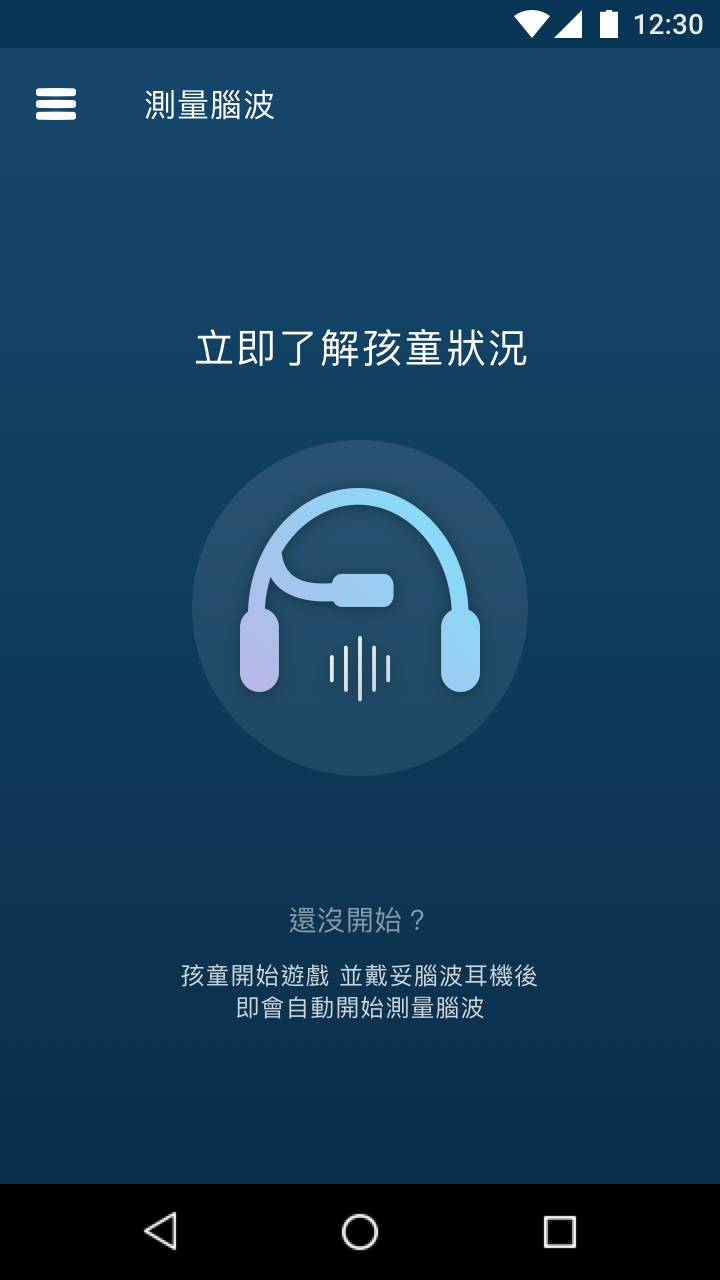
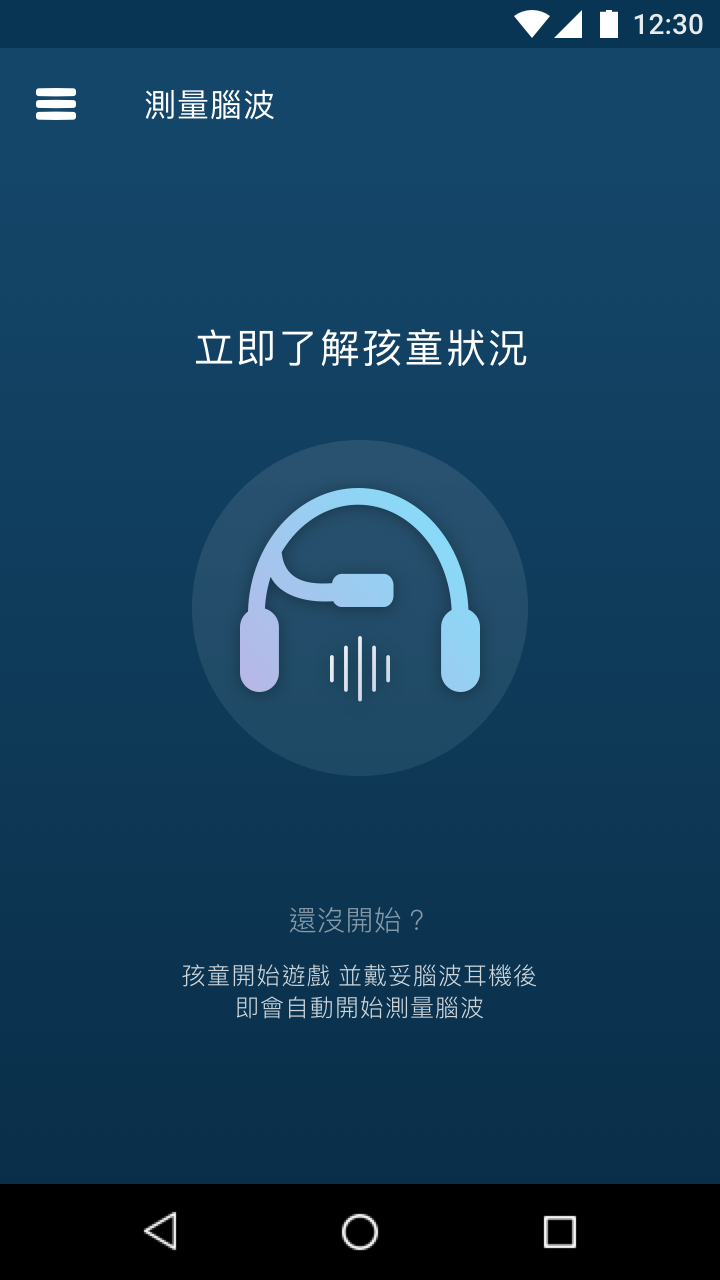
z

Changed region(s): [[0.2444, 0.75, 0.7639, 0.8125]]

diff --git a/page_ms_default/index.html b/page_ms_default/index.html
@@ -1656,7 +1656,7 @@ I18N['zh-tw'] = {
     init.prototype = SMApp.fn;
     window.SMApp = SMApp;
 })(window);
-$(function(){ SMApp({"scale":"1","unit":"px","colorFormat":"color-hex","artboards":[{"layers":[{"objectID":"A8DF03EC-6BA6-47D5-9067-3C0190DDEBF7","type":"shape","name":"bg_darkBlue","rect":{"x":0,"y":80,"width":360,"height":512},"rotation":0,"radius":0,"borders":[],"fills":[{"fillType":"gradient","gradient":{"type":"linear","from":{"x":0.463243305683136,"y":0},"to":{"x":0.46324329922059615,"y":1.044392124421861},"colorStops":[{"color":{"r":20,"g":70,"b":105,"a":1,"color-hex":"#144669 100%","argb-hex":"#FF144669","css-rgba":"rgba(20,70,105,1)","ui-color":"(r:0.08 g:0.27 b:0.41 a:1.00)"},"position":0},{"color":{"r":9,"g":45,"b":71,"a":1,"color-hex":"#092D47 100%","argb-hex":"#FF092D47","css-rgba":"rgba(9,45,71,1)","ui-color":"(r:0.03 g:0.18 b:0.28 a:1.00)"},"position":1}]}}],"shadows":[],"opacity":1,"styleName":"","css":["background-image: linear-gradient(-180deg, #144669 0%, #092D47 100%);"]},{"objectID":"C24CA3C5-14D3-49C8-BAE1-D055860FE111","type":"shape","name":"nav_bar","rect":{"x":0,"y":592,"width":360,"height":48},"rotation":0,"radius":0,"borders":[],"fills":[],"shadows":[],"opacity":1,"styleName":""},{"objectID":"73826274-ED5E-4AD5-9923-4425F4F8757E","type":"text","name":"孩童開始遊戲 並戴妥腦波耳機後 即會自動","rect":{"x":90,"y":480,"width":180,"height":32},"rotation":0,"radius":0,"borders":[],"fills":[],"shadows":[],"opacity":0.800000011920929,"styleName":"","content":"孩童開始遊戲 並戴妥腦波耳機後\n即會自動開始測量腦波","color":{"r":255,"g":255,"b":255,"a":1,"color-hex":"#FFFFFF 100%","argb-hex":"#FFFFFFFF","css-rgba":"rgba(255,255,255,1)","ui-color":"(r:1.00 g:1.00 b:1.00 a:1.00)"},"fontSize":12,"fontFace":"PingFangTC-Regular","textAlign":"center","letterSpacing":0.5,"lineHeight":16,"css":["opacity: 0.8;","font-family: PingFangTC-Regular;","font-size: 12px;","color: #FFFFFF;","letter-spacing: 0.5px;","line-height: 16px;"]},{"objectID":"DF079282-0BB4-4492-A0B4-89F07B8C3FEB","type":"text","name":"還沒開始？","rect":{"x":144,"y":448,"width":72,"height":24},"rotation":0,"radius":0,"borders":[],"fills":[],"shadows":[],"opacity":0.5,"styleName":"","content":"還沒開始？","color":{"r":255,"g":255,"b":255,"a":1,"color-hex":"#FFFFFF 100%","argb-hex":"#FFFFFFFF","css-rgba":"rgba(255,255,255,1)","ui-color":"(r:1.00 g:1.00 b:1.00 a:1.00)"},"fontSize":14,"fontFace":"Roboto-Regular","textAlign":"center","letterSpacing":0.30000001192092896,"lineHeight":24,"css":["opacity: 0.5;","font-family: Roboto-Regular;","font-size: 14px;","color: #FFFFFF;","letter-spacing: 0.3px;","line-height: 24px;"]},{"objectID":"A787A7F6-D058-41DD-A17C-95F8272A4810","type":"slice","name":"Img_headset","rect":{"x":96,"y":220,"width":168,"height":168},"exportable":[{"name":"Img_headset","format":"png","path":"Img_headset.png"}]},{"objectID":"A15F91AF-730A-4074-A24E-D45C4149D91A","type":"symbol","name":"Bar/Header","rect":{"x":0,"y":24,"width":360,"height":56},"rotation":0,"radius":0,"borders":[],"fills":[],"shadows":[],"opacity":1,"styleName":""},{"objectID":"F7567344-B48B-42DA-A3CC-50CE141C64CD","type":"shape","name":"bg","rect":{"x":0,"y":24,"width":360,"height":56},"rotation":0,"radius":0,"borders":[],"fills":[{"fillType":"color","color":{"r":20,"g":70,"b":105,"a":1,"color-hex":"#144669 100%","argb-hex":"#FF144669","css-rgba":"rgba(20,70,105,1)","ui-color":"(r:0.08 g:0.27 b:0.41 a:1.00)"}}],"shadows":[],"opacity":1,"styleName":"","css":["background: #144669;"]},{"objectID":"7633D35D-9322-4228-9C07-ACD3E6F8156D","type":"symbol","name":"Icon/menu","rect":{"x":16,"y":40,"width":24,"height":24},"rotation":0,"radius":0,"borders":[],"fills":[],"shadows":[],"opacity":1,"styleName":"","exportable":[{"name":"Icon/menu","format":"png","path":"Icon/menu.png"}]},{"objectID":"CC57C13F-2C1C-4E02-B459-765E72797C45","type":"text","name":"Title","rect":{"x":72,"y":40,"width":66,"height":24},"rotation":0,"radius":0,"borders":[],"fills":[],"shadows":[],"opacity":1,"styleName":"White/16px regular","content":"測量腦波","color":{"r":255,"g":255,"b":255,"a":1,"color-hex":"#FFFFFF 100%","argb-hex":"#FFFFFFFF","css-rgba":"rgba(255,255,255,1)","ui-color":"(r:1.00 g:1.00 b:1.00 a:1.00)"},"fontSize":16,"fontFace":"Roboto-Regular","textAlign":"left","letterSpacing":0.5,"lineHeight":24,"css":["font-family: Roboto-Regular;","font-size: 16px;","color: #FFFFFF;","letter-spacing: 0.5px;","line-height: 24px;"]},{"objectID":"1D9038E2-0B4B-4B89-8FD6-5779EE9AC07C","type":"symbol","name":"Bars/Status bar","rect":{"x":0,"y":0,"width":360,"height":24},"rotation":0,"radius":0,"borders":[],"fills":[],"shadows":[],"opacity":1,"styleName":""},{"objectID":"92B9CC3F-C79D-4213-845D-358967D93061","type":"shape","name":"status bar bg","rect":{"x":0,"y":0,"width":360,"height":24},"rotation":0,"radius":0,"borders":[],"fills":[{"fillType":"color","color":{"r":9,"g":53,"b":84,"a":1,"color-hex":"#093554 100%","argb-hex":"#FF093554","css-rgba":"rgba(9,53,84,1)","ui-color":"(r:0.04 g:0.21 b:0.33 a:1.00)"}}],"shadows":[],"opacity":1,"styleName":"","css":["background: #093554;"]},{"objectID":"C721A454-854E-449C-85BC-A123A8EC1018","type":"text","name":"12:30","rect":{"x":316,"y":4,"width":36,"height":16},"rotation":0,"radius":0,"borders":[],"fills":[{"fillType":"color","color":{"r":255,"g":255,"b":255,"a":1,"color-hex":"#FFFFFF 100%","argb-hex":"#FFFFFFFF","css-rgba":"rgba(255,255,255,1)","ui-color":"(r:1.00 g:1.00 b:1.00 a:1.00)"}}],"shadows":[],"opacity":1,"styleName":"","content":"12:30","color":{"r":0,"g":0,"b":0,"a":1,"color-hex":"#000000 100%","argb-hex":"#FF000000","css-rgba":"rgba(0,0,0,1)","ui-color":"(r:0.00 g:0.00 b:0.00 a:1.00)"},"fontSize":14,"fontFace":"Roboto-Medium","textAlign":"right","letterSpacing":0,"lineHeight":16,"css":["font-family: Roboto-Medium;","font-size: 14px;","color: #000000;"]},{"objectID":"EA577749-950A-4B95-AE91-1471809E4D5C","type":"shape","name":"bounds","rect":{"x":297,"y":4,"width":16,"height":16},"rotation":0,"radius":0,"borders":[],"fills":[],"shadows":[],"opacity":1,"styleName":""},{"objectID":"04509B03-1C82-4E70-A60B-563CB5EFDEED","type":"shape","name":"Shape","rect":{"x":300,"y":5,"width":9,"height":14},"rotation":0,"radius":0,"borders":[],"fills":[{"fillType":"color","color":{"r":255,"g":255,"b":255,"a":1,"color-hex":"#FFFFFF 100%","argb-hex":"#FFFFFFFF","css-rgba":"rgba(255,255,255,1)","ui-color":"(r:1.00 g:1.00 b:1.00 a:1.00)"}}],"shadows":[],"opacity":1,"styleName":"","css":["background: #FFFFFF;"]},{"objectID":"7EBD03E0-7CF8-4DF4-84D6-87FC9A84FB1E","type":"shape","name":"bounds","rect":{"x":277,"y":4,"width":16,"height":16},"rotation":0,"radius":0,"borders":[],"fills":[],"shadows":[],"opacity":1,"styleName":""},{"objectID":"CBB32A07-0D54-40D4-A69F-2B64CBF676E5","type":"shape","name":"Shape","rect":{"x":277,"y":5,"width":14,"height":14},"rotation":0,"radius":0,"borders":[],"fills":[{"fillType":"color","color":{"r":255,"g":255,"b":255,"a":1,"color-hex":"#FFFFFF 100%","argb-hex":"#FFFFFFFF","css-rgba":"rgba(255,255,255,1)","ui-color":"(r:1.00 g:1.00 b:1.00 a:1.00)"}}],"shadows":[],"opacity":1,"styleName":"","css":["background: #FFFFFF;"]},{"objectID":"1C63ECF8-A21C-468D-A2E0-36C0B9689898","type":"shape","name":"bounds","rect":{"x":258,"y":4,"width":16,"height":16},"rotation":0,"radius":0,"borders":[],"fills":[],"shadows":[],"opacity":1,"styleName":""},{"objectID":"7A5D021E-5761-4B5B-A926-8A58D348CA3B","type":"shape","name":"Shape","rect":{"x":257,"y":5,"width":18,"height":14},"rotation":0,"radius":0,"borders":[],"fills":[{"fillType":"color","color":{"r":255,"g":255,"b":255,"a":1,"color-hex":"#FFFFFF 100%","argb-hex":"#FFFFFFFF","css-rgba":"rgba(255,255,255,1)","ui-color":"(r:1.00 g:1.00 b:1.00 a:1.00)"}}],"shadows":[],"opacity":1,"styleName":"","css":["background: #FFFFFF;"]},{"objectID":"5DA760EB-584E-433F-98F9-770AA27EC75D","type":"text","name":"立即了解孩童狀況","rect":{"x":97,"y":160,"width":167,"height":28},"rotation":0,"radius":0,"borders":[],"fills":[],"shadows":[],"opacity":1,"styleName":"","content":"立即了解孩童狀況","color":{"r":255,"g":255,"b":255,"a":1,"color-hex":"#FFFFFF 100%","argb-hex":"#FFFFFFFF","css-rgba":"rgba(255,255,255,1)","ui-color":"(r:1.00 g:1.00 b:1.00 a:1.00)"},"fontSize":20,"fontFace":"Roboto-Regular","textAlign":"center","letterSpacing":1,"lineHeight":28,"css":["font-family: Roboto-Regular;","font-size: 20px;","color: #FFFFFF;","letter-spacing: 1px;","line-height: 28px;"]}],"notes":[],"pageName":"Page 1","pageObjectID":"D526FE0C-BCEE-4C14-AAE0-85B6CF2F2B53","name":"測量腦波-default","slug":"page-1-測量腦波-default","objectID":"8E420D94-00FE-49D3-B918-1A4E364BF129","width":360,"height":640,"imagePath":"preview/page-1-%E6%B8%AC%E9%87%8F%E8%85%A6%E6%B3%A2-default.png"}],"slices":[{"name":"Img_headset","objectID":"A787A7F6-D058-41DD-A17C-95F8272A4810","rect":{"x":96,"y":220,"width":168,"height":168},"exportable":[{"name":"Img_headset","format":"png","path":"Img_headset.png"}]},{"name":"Icon/menu","objectID":"7633D35D-9322-4228-9C07-ACD3E6F8156D","rect":{"x":16,"y":40,"width":24,"height":24},"exportable":[{"name":"Icon/menu","format":"png","path":"Icon/menu.png"}]}],"colors":[]}) });
+$(function(){ SMApp({"scale":"1","unit":"px","colorFormat":"color-hex","artboards":[{"layers":[{"objectID":"A8DF03EC-6BA6-47D5-9067-3C0190DDEBF7","type":"shape","name":"bg_darkBlue","rect":{"x":0,"y":80,"width":360,"height":512},"rotation":0,"radius":0,"borders":[],"fills":[{"fillType":"gradient","gradient":{"type":"linear","from":{"x":0.463243305683136,"y":0},"to":{"x":0.46324329922059615,"y":1.044392124421861},"colorStops":[{"color":{"r":20,"g":70,"b":105,"a":1,"color-hex":"#144669 100%","argb-hex":"#FF144669","css-rgba":"rgba(20,70,105,1)","ui-color":"(r:0.08 g:0.27 b:0.41 a:1.00)"},"position":0},{"color":{"r":9,"g":45,"b":71,"a":1,"color-hex":"#092D47 100%","argb-hex":"#FF092D47","css-rgba":"rgba(9,45,71,1)","ui-color":"(r:0.03 g:0.18 b:0.28 a:1.00)"},"position":1}]}}],"shadows":[],"opacity":1,"styleName":"","css":["background-image: linear-gradient(-180deg, #144669 0%, #092D47 100%);"]},{"objectID":"C24CA3C5-14D3-49C8-BAE1-D055860FE111","type":"shape","name":"nav_bar","rect":{"x":0,"y":592,"width":360,"height":48},"rotation":0,"radius":0,"borders":[],"fills":[],"shadows":[],"opacity":1,"styleName":""},{"objectID":"73826274-ED5E-4AD5-9923-4425F4F8757E","type":"text","name":"孩童開始遊戲 並戴妥腦波耳機後 即會自動","rect":{"x":90.5,"y":480,"width":179,"height":32},"rotation":0,"radius":0,"borders":[],"fills":[],"shadows":[],"opacity":0.800000011920929,"styleName":"","content":"孩童開始遊戲 並戴妥腦波耳機後\n即會自動開始測量腦波","color":{"r":255,"g":255,"b":255,"a":1,"color-hex":"#FFFFFF 100%","argb-hex":"#FFFFFFFF","css-rgba":"rgba(255,255,255,1)","ui-color":"(r:1.00 g:1.00 b:1.00 a:1.00)"},"fontSize":12,"fontFace":"Roboto-Light","textAlign":"center","letterSpacing":0.5,"lineHeight":16,"css":["opacity: 0.8;","font-family: Roboto-Light;","font-size: 12px;","color: #FFFFFF;","letter-spacing: 0.5px;","line-height: 16px;"]},{"objectID":"DF079282-0BB4-4492-A0B4-89F07B8C3FEB","type":"text","name":"還沒開始？","rect":{"x":144,"y":448,"width":72,"height":24},"rotation":0,"radius":0,"borders":[],"fills":[],"shadows":[],"opacity":0.5,"styleName":"","content":"還沒開始？","color":{"r":255,"g":255,"b":255,"a":1,"color-hex":"#FFFFFF 100%","argb-hex":"#FFFFFFFF","css-rgba":"rgba(255,255,255,1)","ui-color":"(r:1.00 g:1.00 b:1.00 a:1.00)"},"fontSize":14,"fontFace":"Roboto-Light","textAlign":"center","letterSpacing":0.30000001192092896,"lineHeight":24,"css":["opacity: 0.5;","font-family: Roboto-Light;","font-size: 14px;","color: #FFFFFF;","letter-spacing: 0.3px;","line-height: 24px;"]},{"objectID":"A787A7F6-D058-41DD-A17C-95F8272A4810","type":"slice","name":"Img_headset","rect":{"x":96,"y":220,"width":168,"height":168},"exportable":[{"name":"Img_headset","format":"png","path":"Img_headset.png"}]},{"objectID":"A15F91AF-730A-4074-A24E-D45C4149D91A","type":"symbol","name":"Bar/Header","rect":{"x":0,"y":24,"width":360,"height":56},"rotation":0,"radius":0,"borders":[],"fills":[],"shadows":[],"opacity":1,"styleName":""},{"objectID":"F7567344-B48B-42DA-A3CC-50CE141C64CD","type":"shape","name":"bg","rect":{"x":0,"y":24,"width":360,"height":56},"rotation":0,"radius":0,"borders":[],"fills":[{"fillType":"color","color":{"r":20,"g":70,"b":105,"a":1,"color-hex":"#144669 100%","argb-hex":"#FF144669","css-rgba":"rgba(20,70,105,1)","ui-color":"(r:0.08 g:0.27 b:0.41 a:1.00)"}}],"shadows":[],"opacity":1,"styleName":"","css":["background: #144669;"]},{"objectID":"7633D35D-9322-4228-9C07-ACD3E6F8156D","type":"symbol","name":"Icon/menu","rect":{"x":16,"y":40,"width":24,"height":24},"rotation":0,"radius":0,"borders":[],"fills":[],"shadows":[],"opacity":1,"styleName":"","exportable":[{"name":"Icon/menu","format":"png","path":"Icon/menu.png"}]},{"objectID":"CC57C13F-2C1C-4E02-B459-765E72797C45","type":"text","name":"Title","rect":{"x":72,"y":40,"width":66,"height":24},"rotation":0,"radius":0,"borders":[],"fills":[],"shadows":[],"opacity":1,"styleName":"White/16px regular","content":"測量腦波","color":{"r":255,"g":255,"b":255,"a":1,"color-hex":"#FFFFFF 100%","argb-hex":"#FFFFFFFF","css-rgba":"rgba(255,255,255,1)","ui-color":"(r:1.00 g:1.00 b:1.00 a:1.00)"},"fontSize":16,"fontFace":"Roboto-Regular","textAlign":"left","letterSpacing":0.5,"lineHeight":24,"css":["font-family: Roboto-Regular;","font-size: 16px;","color: #FFFFFF;","letter-spacing: 0.5px;","line-height: 24px;"]},{"objectID":"1D9038E2-0B4B-4B89-8FD6-5779EE9AC07C","type":"symbol","name":"Bars/Status bar","rect":{"x":0,"y":0,"width":360,"height":24},"rotation":0,"radius":0,"borders":[],"fills":[],"shadows":[],"opacity":1,"styleName":""},{"objectID":"92B9CC3F-C79D-4213-845D-358967D93061","type":"shape","name":"status bar bg","rect":{"x":0,"y":0,"width":360,"height":24},"rotation":0,"radius":0,"borders":[],"fills":[{"fillType":"color","color":{"r":9,"g":53,"b":84,"a":1,"color-hex":"#093554 100%","argb-hex":"#FF093554","css-rgba":"rgba(9,53,84,1)","ui-color":"(r:0.04 g:0.21 b:0.33 a:1.00)"}}],"shadows":[],"opacity":1,"styleName":"","css":["background: #093554;"]},{"objectID":"C721A454-854E-449C-85BC-A123A8EC1018","type":"text","name":"12:30","rect":{"x":316,"y":4,"width":36,"height":16},"rotation":0,"radius":0,"borders":[],"fills":[{"fillType":"color","color":{"r":255,"g":255,"b":255,"a":1,"color-hex":"#FFFFFF 100%","argb-hex":"#FFFFFFFF","css-rgba":"rgba(255,255,255,1)","ui-color":"(r:1.00 g:1.00 b:1.00 a:1.00)"}}],"shadows":[],"opacity":1,"styleName":"","content":"12:30","color":{"r":0,"g":0,"b":0,"a":1,"color-hex":"#000000 100%","argb-hex":"#FF000000","css-rgba":"rgba(0,0,0,1)","ui-color":"(r:0.00 g:0.00 b:0.00 a:1.00)"},"fontSize":14,"fontFace":"Roboto-Medium","textAlign":"right","letterSpacing":0,"lineHeight":16,"css":["font-family: Roboto-Medium;","font-size: 14px;","color: #000000;"]},{"objectID":"EA577749-950A-4B95-AE91-1471809E4D5C","type":"shape","name":"bounds","rect":{"x":297,"y":4,"width":16,"height":16},"rotation":0,"radius":0,"borders":[],"fills":[],"shadows":[],"opacity":1,"styleName":""},{"objectID":"04509B03-1C82-4E70-A60B-563CB5EFDEED","type":"shape","name":"Shape","rect":{"x":300,"y":5,"width":9,"height":14},"rotation":0,"radius":0,"borders":[],"fills":[{"fillType":"color","color":{"r":255,"g":255,"b":255,"a":1,"color-hex":"#FFFFFF 100%","argb-hex":"#FFFFFFFF","css-rgba":"rgba(255,255,255,1)","ui-color":"(r:1.00 g:1.00 b:1.00 a:1.00)"}}],"shadows":[],"opacity":1,"styleName":"","css":["background: #FFFFFF;"]},{"objectID":"7EBD03E0-7CF8-4DF4-84D6-87FC9A84FB1E","type":"shape","name":"bounds","rect":{"x":277,"y":4,"width":16,"height":16},"rotation":0,"radius":0,"borders":[],"fills":[],"shadows":[],"opacity":1,"styleName":""},{"objectID":"CBB32A07-0D54-40D4-A69F-2B64CBF676E5","type":"shape","name":"Shape","rect":{"x":277,"y":5,"width":14,"height":14},"rotation":0,"radius":0,"borders":[],"fills":[{"fillType":"color","color":{"r":255,"g":255,"b":255,"a":1,"color-hex":"#FFFFFF 100%","argb-hex":"#FFFFFFFF","css-rgba":"rgba(255,255,255,1)","ui-color":"(r:1.00 g:1.00 b:1.00 a:1.00)"}}],"shadows":[],"opacity":1,"styleName":"","css":["background: #FFFFFF;"]},{"objectID":"1C63ECF8-A21C-468D-A2E0-36C0B9689898","type":"shape","name":"bounds","rect":{"x":258,"y":4,"width":16,"height":16},"rotation":0,"radius":0,"borders":[],"fills":[],"shadows":[],"opacity":1,"styleName":""},{"objectID":"7A5D021E-5761-4B5B-A926-8A58D348CA3B","type":"shape","name":"Shape","rect":{"x":257,"y":5,"width":18,"height":14},"rotation":0,"radius":0,"borders":[],"fills":[{"fillType":"color","color":{"r":255,"g":255,"b":255,"a":1,"color-hex":"#FFFFFF 100%","argb-hex":"#FFFFFFFF","css-rgba":"rgba(255,255,255,1)","ui-color":"(r:1.00 g:1.00 b:1.00 a:1.00)"}}],"shadows":[],"opacity":1,"styleName":"","css":["background: #FFFFFF;"]},{"objectID":"5DA760EB-584E-433F-98F9-770AA27EC75D","type":"text","name":"立即了解孩童狀況","rect":{"x":97,"y":160,"width":167,"height":28},"rotation":0,"radius":0,"borders":[],"fills":[],"shadows":[],"opacity":1,"styleName":"","content":"立即了解孩童狀況","color":{"r":255,"g":255,"b":255,"a":1,"color-hex":"#FFFFFF 100%","argb-hex":"#FFFFFFFF","css-rgba":"rgba(255,255,255,1)","ui-color":"(r:1.00 g:1.00 b:1.00 a:1.00)"},"fontSize":20,"fontFace":"Roboto-Regular","textAlign":"center","letterSpacing":1,"lineHeight":28,"css":["font-family: Roboto-Regular;","font-size: 20px;","color: #FFFFFF;","letter-spacing: 1px;","line-height: 28px;"]}],"notes":[],"pageName":"Page 1","pageObjectID":"D526FE0C-BCEE-4C14-AAE0-85B6CF2F2B53","name":"測量腦波-default","slug":"page-1-測量腦波-default","objectID":"8E420D94-00FE-49D3-B918-1A4E364BF129","width":360,"height":640,"imagePath":"preview/page-1-%E6%B8%AC%E9%87%8F%E8%85%A6%E6%B3%A2-default.png"}],"slices":[{"name":"Img_headset","objectID":"A787A7F6-D058-41DD-A17C-95F8272A4810","rect":{"x":96,"y":220,"width":168,"height":168},"exportable":[{"name":"Img_headset","format":"png","path":"Img_headset.png"}]},{"name":"Icon/menu","objectID":"7633D35D-9322-4228-9C07-ACD3E6F8156D","rect":{"x":16,"y":40,"width":24,"height":24},"exportable":[{"name":"Icon/menu","format":"png","path":"Icon/menu.png"}]}],"colors":[]}) });
     -->
     </script>
   </head>

diff --git a/index.html b/index.html
@@ -10,6 +10,19 @@
 </head>
     <body style="background-color: #9ACBD9">
             <div class="col-md-12" >
+                <h3>側量腦波</h3>
+            </div>
+            <div class="col-md-12" >
+                <div class="col-md-1">
+                    <a style=" color: #144669 " href="page_ms_default/index.html">
+                        <p>default</p>
+                        <img src="source/page_ms_default.png" style="height:140px"/>
+                    </a>
+                </div>
+            </div>
+            <!-- page_MS -->
+
+            <div class="col-md-12" >
                 <h3> 登入/註冊 </h3>
             </div>
             <div class="col-md-12" >
@@ -175,6 +188,8 @@
             </div>
         </div>
         <!-- page_2 -->
+        
+
     </body>
     </html>
 
